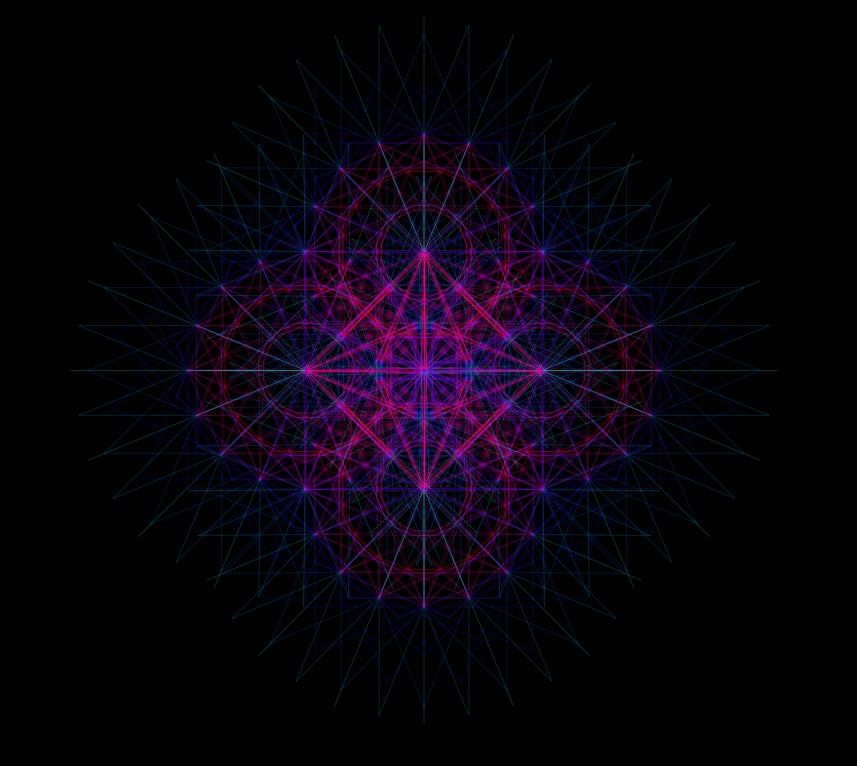
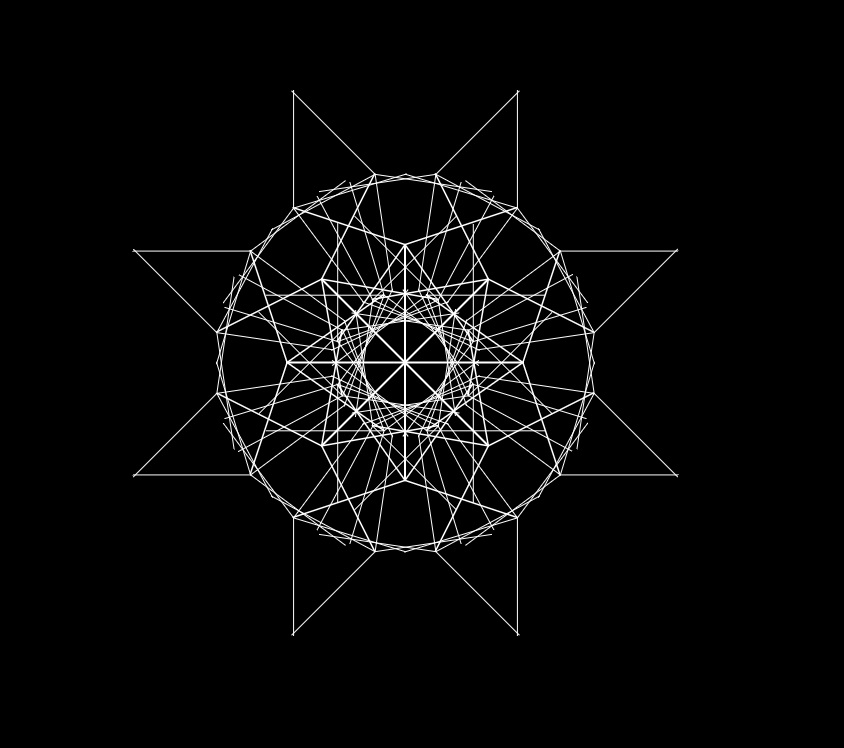
the old color to white switcheroo

diff --git a/posts/tree/sketch.js b/posts/tree/sketch.js
@@ -1,8 +1,6 @@
-var stems = 4;
+var stems = 16;
 var maxGen = 1;
-var brcount = 20;
-var stemStrokeWeight = 1;
-var endStrokeWeight = .1;
+var brcount = 3;
 var lineSize = 0;
 var range = 0;
 var startRange = -390;
@@ -41,8 +39,8 @@ function draw() {
   var c = createVector(width/2, height/2);
   for (var ang = 0; ang < TWO_PI; ang += TWO_PI/stems) {
     var tar = getPointAtAngle(c.x, c.y, lineSize, ang);
-    strokeWeight(stemStrokeWeight);
-		stroke(hue, 1, 1);
+    strokeWeight(2);
+		stroke(0, 0, 1);
     line(c.x, c.y, tar.x, tar.y);
     drawLines(c.x, c.y, tar.x, tar.y, 0);
   }
@@ -57,10 +55,9 @@ function drawLines(x0, y0, x1, y1, gen) {
       var a = midA-range/2 + i*angleStep;
       var tar = getPointAtAngle(x1, y1, lineSize, a);
       tars.push(tar);
-			var hue = map(abs(brcount/2-i), 0, brcount/2, .5, 1);
-			var weight = (stemStrokeWeight - gen*.4);
+			var weight = (2 - gen*.5);
 	    strokeWeight(weight);
-			stroke(hue, 1, 1);
+			stroke(0, 0, 1);
       line(x1, y1, tar.x, tar.y);
     }
     for (var i = 0; i < tars.length; i++){
